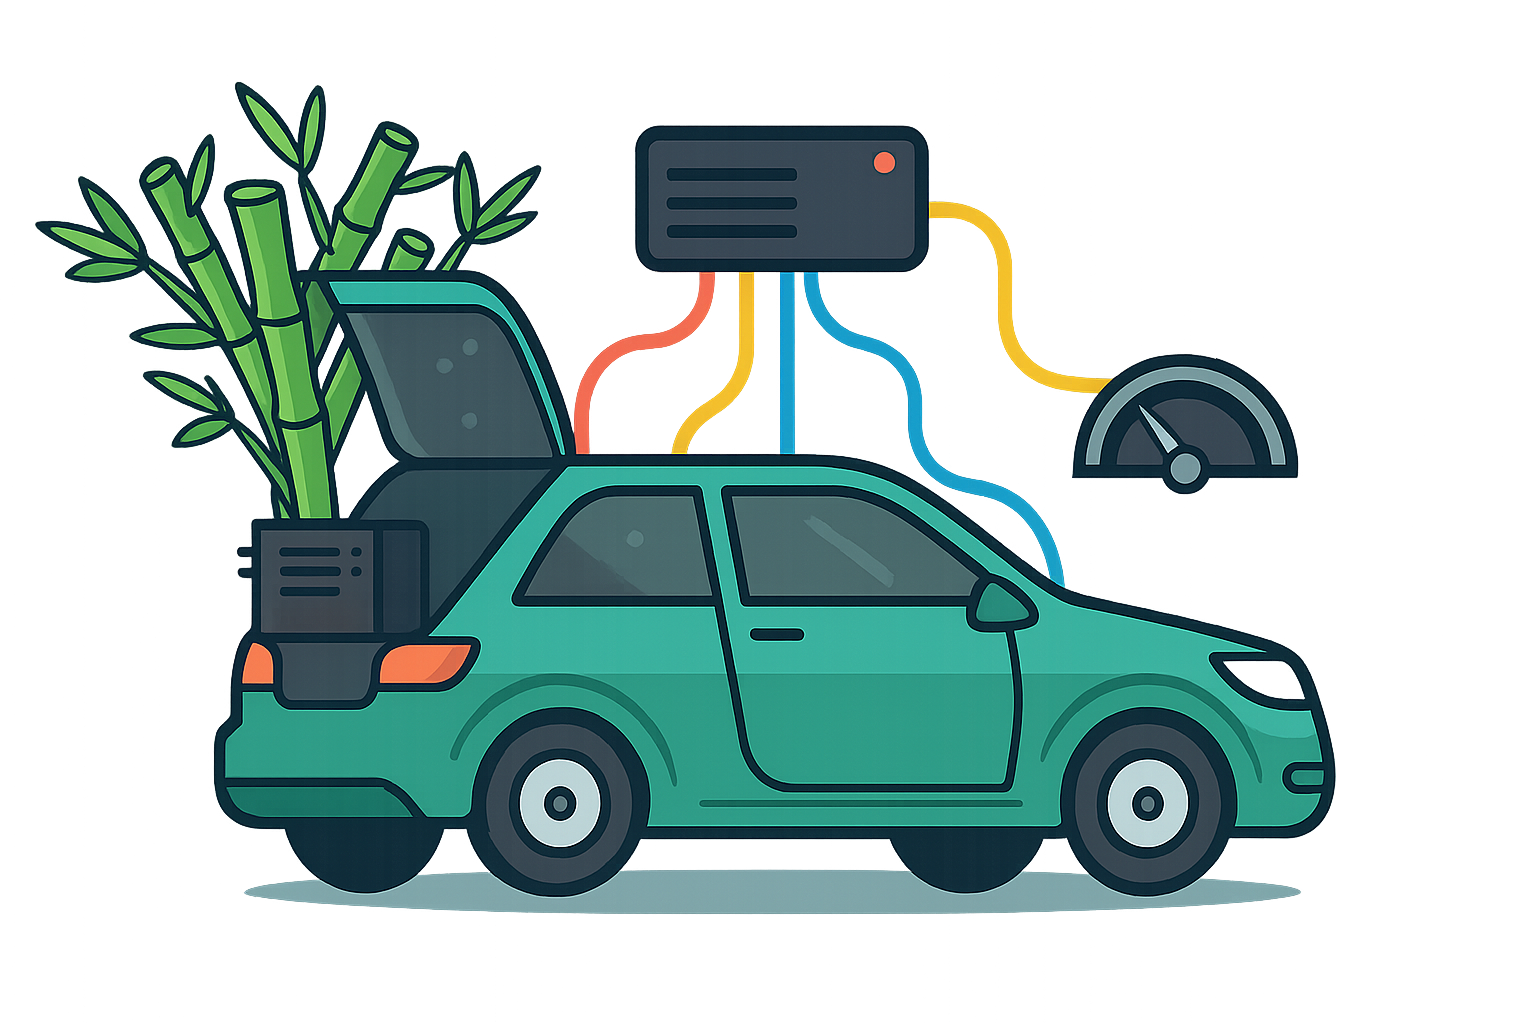
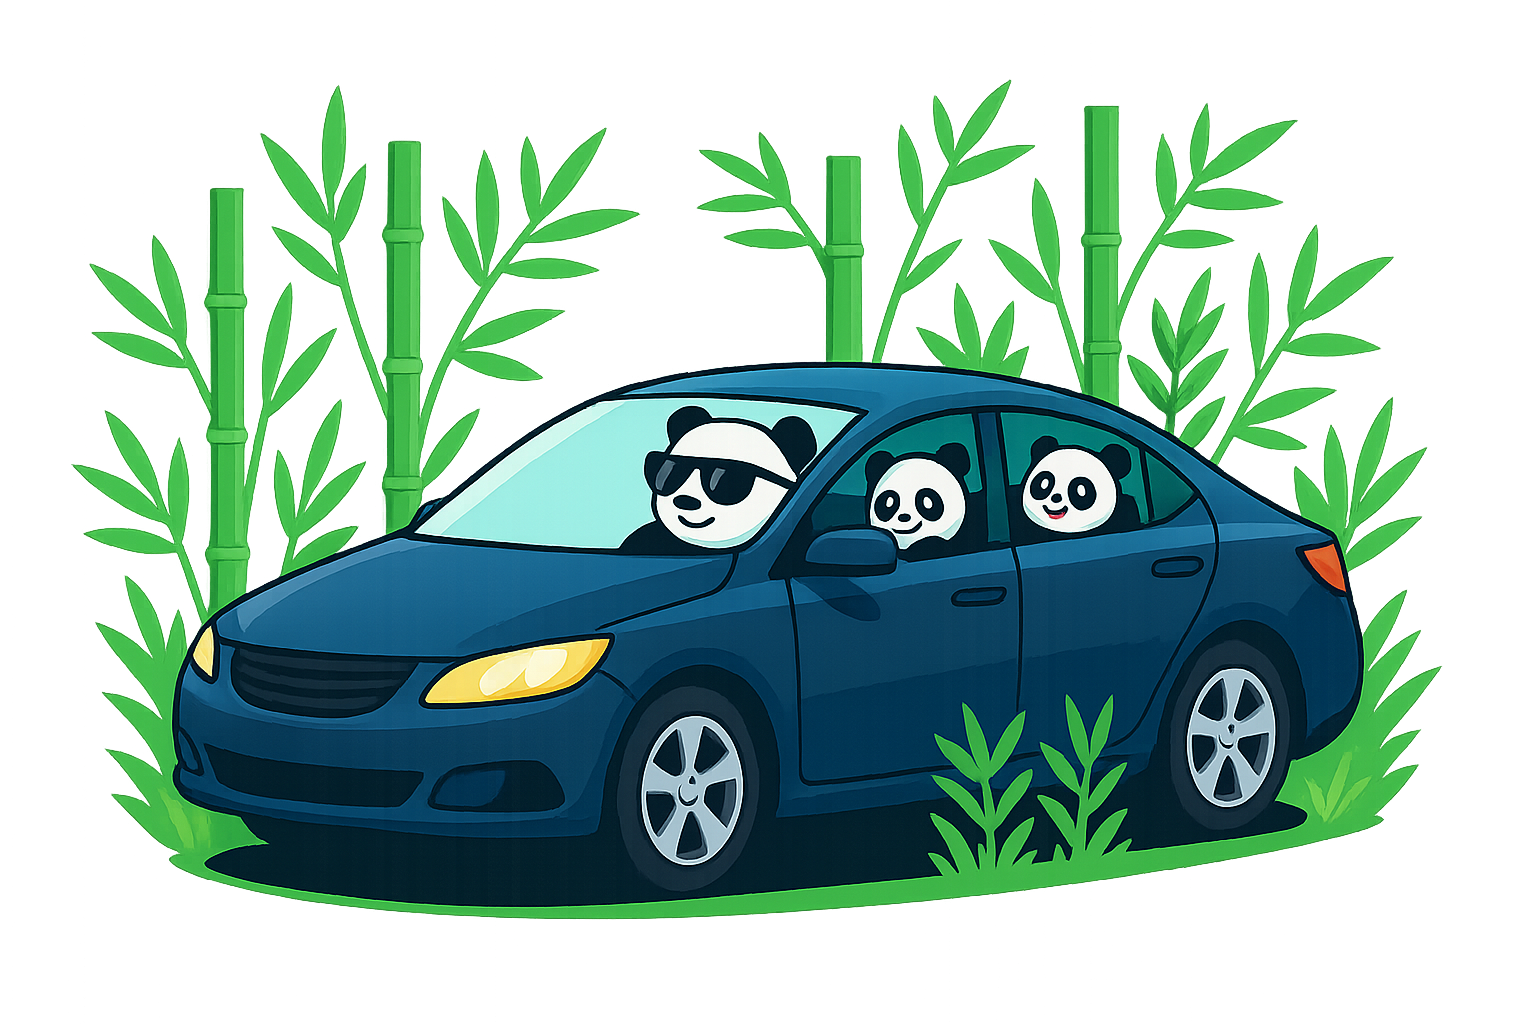
improve layout on small screens + add consumer planet + new images

diff --git a/themes/xen-project/assets/js/vite/components/Story.tsx b/themes/xen-project/assets/js/vite/components/Story.tsx
@@ -2,10 +2,11 @@ import {type IParallax, Parallax, ParallaxLayer} from '@react-spring/parallax';
 import clsx from 'clsx';
 import {useEffect, useRef, useState} from 'preact/hooks';
 import {type ComponentChildren} from 'preact';
-import panda from '../assets/panda-space-suite.png';
-import dataCenter from '../assets/data-center.png';
-import car from '../assets/car.png';
-import industrial from '../assets/industrial.png';
+import panda from '../assets/panda-space-suite.webp';
+import dataCenter from '../assets/data-center.webp';
+import consumer from '../assets/consumer.webp';
+import car from '../assets/car.webp';
+import industrial from '../assets/industrial.webp';
 
 type Star = {
   x: number;
@@ -68,13 +69,13 @@ export function Story() {
     };
   }, [page]);
 
-  const pages = 12;
+  const pages = 16;
   const endIndex = pages - 1;
   return (
     <div className="uno-relative uno-w-full uno-h-100dvh uno-overflow-hidden uno-bg-black">
       <Parallax ref={storyRef} className="uno-top-0_bak uno-left-0_bak uno-h-full uno-w-full" pages={pages}>
         {/* Background layers */}
-        <ParallaxLayer speed={1.3} offset={0} factor={12 * 2.2} className="uno-flex uno-relative uno-w-full">
+        <ParallaxLayer speed={1.3} offset={0} factor={12 * 2.9} className="uno-flex uno-relative uno-w-full">
           <div className="uno-flex uno-relative uno-w-full">
             {stars.slice(0, 999).map((star, index) => (
               <div
@@ -95,7 +96,7 @@ export function Story() {
             ))}
           </div>
         </ParallaxLayer>
-        <ParallaxLayer speed={1.8} offset={0} factor={12 * 2.65} className="uno-flex uno-relative uno-w-full">
+        <ParallaxLayer speed={1.8} offset={0} factor={12 * 3.5} className="uno-flex uno-relative uno-w-full">
           <div className="uno-flex uno-relative uno-w-full">
             {stars.slice(1000, 1999).map((star, index) => (
               <div
@@ -128,48 +129,48 @@ export function Story() {
           start={8}
           gradient="uno-bg-gradient-stops-[rgba(42,123,155,1)_0%,rgb(204,175,47)_35%,rgba(100,100,100,0.3)_40%,rgba(0,0,0,0)_45%]"
         />
+        <PlanetBackground
+          start={11}
+          gradient="uno-bg-gradient-stops-[rgba(42,123,155,1)_0%,rgba(114,63,204,1)_35%,rgba(100,100,100,0.3)_40%,rgba(0,0,0,0)_45%]"
+        />
 
         {/* Content layers */}
         <ParallaxLayer
           offset={0}
-          className="uno-flex uno-flex-col uno-items-center uno-justify-center uno-p-20"
+          className={clsx(
+            'uno-flex uno-flex-col uno-items-center uno-justify-center uno-gap-4 uno-p-8 sm:uno-p-20',
+            'uno-animate-fade-in',
+            page === 0 ? 'uno-opacity-100' : 'uno-opacity-0',
+            'uno-transition-opacity uno-duration-300  uno-ease-in-out',
+            'uno-text-white uno-text-2xl sm:uno-text-4xl uno-text-center',
+          )}
           speed={1.3}
         >
-          <div
-            className={clsx(
-              'uno-flex uno-flex-col uno-text-white uno-text-4xl uno-gap-2 uno-animate-fade-in',
-              page === 0 ? 'uno-opacity-100' : 'uno-opacity-0',
-              'uno-transition-opacity',
-              'uno-duration-300',
-              'uno-ease-in-out',
-            )}
-          >
-            <div className="">
-              Meet <strong className="uno-xen-shadow">Xen</strong>.
-            </div>
-            <div>The world&apos;s most secure, stable, and performant open source hypervisor.</div>
-            <div className="uno-m-t-10 uno-text-2xl">Scroll down to meet you guide...</div>
+          <div className="">
+            Meet <strong className="uno-xen-shadow">Xen</strong>.
           </div>
+          <div>The world&apos;s most secure, stable, and performant open source hypervisor.</div>
+          <div className="uno-m-t-10 uno-text-base sm:uno-text-2xl">Scroll down to meet you guide...</div>
         </ParallaxLayer>
         <ParallaxLayer
           sticky={{start: 0, end: endIndex - 1}}
           className="uno-flex uno-flex-col uno-items-center uno-justify-end uno-text-white"
         >
-          <div className="uno-w-20 uno-h-20  i-memory-arrow-down uno-animate-bounce uno-m-b-10" />
+          <div className="uno-w-20 uno-h-20  i-fa6-solid-arrow-down uno-animate-bounce uno-m-b-10" />
         </ParallaxLayer>
         <ParallaxLayer
           offset={1}
-          sticky={{start: 1, end: endIndex - 1}}
+          sticky={{start: 1, end: endIndex - 2}}
           className="uno-flex uno-flex-col uno-items-center uno-justify-center uno-p-t-50"
         >
-          <img
-            className="uno-w-20% uno-max-w-100 sm:uno-w-100-bak sm:uno-max-w-50%-bak uno-animate-bounce uno-animate-duration-2300"
-            src={panda}
-          />
+          <img className="uno-w-20% uno-max-w-100 uno-animate-bounce uno-animate-duration-2300" src={panda} />
         </ParallaxLayer>
         <ParallaxLayer
           sticky={{start: 0.8, end: 2}}
-          className="uno-flex uno-flex-col uno-items-center uno-justify-between uno-p-t-50 uno-p-x-20 uno-text-white uno-text-4xl"
+          className={clsx(
+            'uno-flex uno-flex-col uno-items-center uno-justify-start uno-p-t-20 sm:uno-p-t-50 uno-p-x-4 sm:uno-p-x-20',
+            'uno-text-white uno-text-2xl sm:uno-text-4xl',
+          )}
         >
           <div
             className={clsx(
@@ -184,7 +185,7 @@ export function Story() {
             through the wonders of <strong className="uno-xen-shadow">Xen</strong> virtualization.
           </div>
         </ParallaxLayer>
-        <ParallaxLayer sticky={{start: 2, end: 3}} className="uno-flex uno-h-full">
+        <ParallaxLayer sticky={{start: 2, end: 3}} className="uno-flex uno-h-full-bak">
           <PlanetForeground name="Planet Data Center" image={dataCenter} isTextVisible={page >= 2 && page <= 3.2}>
             Xen brings the power of virtualization to data centers around the world, enabling efficient resource
             utilization and scalability. With Xen, data centers can run multiple virtual machines on a single physical
@@ -204,6 +205,29 @@ export function Story() {
             industrial systems. With Xen, manufacturers can optimize resource utilization, enhance system reliability,
             and support advanced features like predictive maintenance and real-time monitoring.
           </PlanetForeground>
+        </ParallaxLayer>
+        <ParallaxLayer sticky={{start: 11, end: 12}} className="uno-flex uno-h-full">
+          <PlanetForeground name="Planet End User" image={consumer} isTextVisible={page >= 11 && page <= 12.2}>
+            Xen is not just for servers and cars... it&apos;s also powering a growing number of end-user systems.
+            Projects like Qubes OS use Xen to bring secure, open-source virtualization to laptops and desktops,
+            protecting users through hardware-enforced isolation of applications and data.
+          </PlanetForeground>
+        </ParallaxLayer>
+        <ParallaxLayer
+          sticky={{start: endIndex - 1.5, end: endIndex}}
+          // Offset={endIndex - 1.5}
+          className={clsx(
+            'uno-flex uno-flex-col uno-items-center uno-justify-center uno-gap-4 uno-p-8 sm:uno-p-20',
+            'uno-animate-fade-in',
+            page >= endIndex - 1.5 && page <= endIndex - 0.8 ? 'uno-opacity-100' : 'uno-opacity-0',
+            'uno-transition-opacity uno-duration-300  uno-ease-in-out',
+            'uno-text-white uno-text-2xl sm:uno-text-4xl uno-text-center',
+          )}
+          // Speed={1.3}
+        >
+          <div className="">
+            Where will <strong className="uno-xen-shadow">Xen</strong> take you?
+          </div>
         </ParallaxLayer>
         <ParallaxLayer sticky={{start: 0, end: 0}}>
           <Header />
@@ -237,21 +261,22 @@ function PlanetForeground({
   return (
     <div
       className={clsx(
-        'uno-grid uno-grid-cols-1 uno-grid-rows-2 sm:uno-grid-cols-2 sm:uno-grid-rows-1',
-        'uno-p-20',
+        'uno-flex uno-flex-col uno-justify-between sm:uno-grid sm:uno-grid-cols-2 sm:uno-grid-rows-1',
+        'uno-p-4 sm:uno-p-20',
         'uno-text-white',
         isTextVisible ? 'uno-opacity-100' : 'uno-opacity-0',
         'uno-transition-opacity',
         'uno-duration-400',
         'uno-ease-in-out',
+        'uno-h-auto',
       )}
     >
       <div className={clsx('uno-flex uno-flex-col uno-gap-2')}>
-        <div className="uno-text-4xl uno-font-semibold">{name}</div>
-        <div className="text-2xl">{children}</div>
+        <div className="uno-text-2xl sm:uno-text-4xl uno-font-semibold">{name}</div>
+        <div className="uno-text-base sm:uno-text-2xl">{children}</div>
       </div>
-      <div className="uno-flex uno-flex-row uno-items-end uno-justify-end">
-        <img className="uno-object-contain" src={image} />
+      <div className="uno-flex uno-flex-row uno-items-end uno-justify-end uno-max-h-30% sm:uno-max-h-none">
+        <img className="uno-object-contain uno-max-h-full sm:uno-max-w-full uno-max-w-50%" src={image} />
       </div>
     </div>
   );
